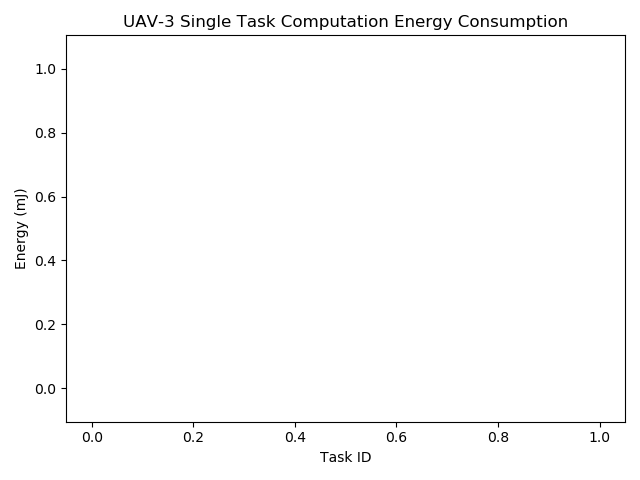
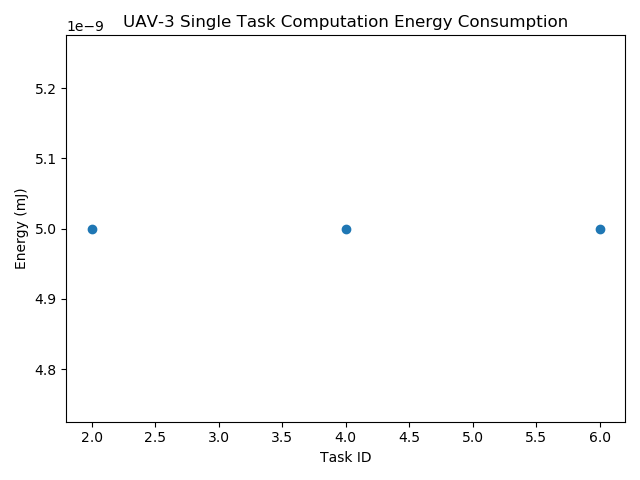
update

diff --git a/src/ros_mpi/scripts/util.py b/src/ros_mpi/scripts/util.py
@@ -301,6 +301,7 @@ class WorkerNode:
                                  band_width=float(config.get('DatarateConfig','band_width')),
                                  transmission_power=float(config.get('DatarateConfig','transmission_power')),
                                  alpha=float(config.get('DatarateConfig','alpha')))
+
             print(f'constructing worker node on {self.node_id}')
             rospy.init_node(self.nodeVerify, anonymous=True)
             while True:
@@ -388,6 +389,27 @@ class Master:
                                  band_width=float(config.get('DatarateConfig','band_width')),
                                  transmission_power=float(config.get('DatarateConfig','transmission_power')),
                                  alpha=float(config.get('DatarateConfig','alpha')))
+        self.comp = [[14,16,9],
+                    [13,19,18],
+                    [11,13,19],
+                    [13,8,17],
+                    [12,13,10],
+                    [13,16,9],
+                    [7,15,11],
+                    [5,11,4],
+                    [18,12,20],
+                    [21,7,16]]
+
+        self.comm = [[0,18,12,9,11,14,0,0,0,0],
+                    [0,0,0,0,0,0,0,19,16,0],
+                    [0,0,0,0,0,0,23,0,0,0],
+                    [0,0,0,0,0,0,0,27,23,0],
+                    [0,0,0,0,0,0,0,0,13,0],
+                    [0,0,0,0,0,0,0,15,0,0],
+                    [0,0,0,0,0,0,0,0,0,17],
+                    [0,0,0,0,0,0,0,0,0,11],
+                    [0,0,0,0,0,0,0,0,0,13],
+                    [0,0,0,0,0,0,0,0,0,0]]
         # while True:
         #     if rospy.wait_for_message('/uav%d/ground_truth_to_tf/pose'%self.nodeid, PoseStamped).pose.position.z + 0.1 > 0:
         #         break
@@ -433,12 +455,13 @@ class Master:
         
     def comm_time(self,u1,u2):
         # print(f'uav {u1} and uav {u2}')
-        pos_1= rospy.wait_for_message('/uav%d/ground_truth_to_tf/pose'%u1, PoseStamped)
-        pos_2 = rospy.wait_for_message('/uav%d/ground_truth_to_tf/pose'%u2, PoseStamped)
-        d = math.dist([pos_1.pose.position.x,pos_1.pose.position.y,pos_1.pose.position.z],
-                             [pos_2.pose.position.x,pos_2.pose.position.y,pos_2.pose.position.z])
+        # pos_1= rospy.wait_for_message('/uav%d/ground_truth_to_tf/pose'%u1, PoseStamped)
+        # pos_2 = rospy.wait_for_message('/uav%d/ground_truth_to_tf/pose'%u2, PoseStamped)
+        # d = math.dist([pos_1.pose.position.x,pos_1.pose.position.y,pos_1.pose.position.z],
+        #                      [pos_2.pose.position.x,pos_2.pose.position.y,pos_2.pose.position.z])
         # dr = Datarate()
-        return self.datarate.data_rate(d)
+        # return self.datarate.data_rate(d)
+        return self.datarate.data_rate(4000)
     def distance_between_nodes(self,u1,u2):
         pos_1= rospy.wait_for_message('/uav%d/ground_truth_to_tf/pose'%u1, PoseStamped)
         pos_2 = rospy.wait_for_message('/uav%d/ground_truth_to_tf/pose'%u2, PoseStamped)
@@ -450,35 +473,27 @@ class Master:
         thread.start()
         for x in dt:
             self.fly_energy.append([self.energy * (x.size / self.cpu),x.task_idx])
-            # if self.distance_between_nodes(self.nodeid,x.processor_id+1) > self.comm_range:
-            #     print('**'*20)
-            #     print('Communication Failed......')
-            #     print('**'*20)
-            # else:
             if x.processor_id == 0:
-                # if self.distance_between_nodes(self.nodeid,self.locate_pred(x)+1) > self.comm_range:
-                #     print('**'*20)
-                #     print('at line 291 Communication Failed......')
-                #     print('**'*20)
-                #     continue
-                # else:
+                print(f'at line 459')
                 location_predecessor = self.locate_pred(x)
                 trans_time = x.size / self.comm_time(self.nodeid,location_predecessor+1) if location_predecessor != 0 else 0
                 x.st = max(self.master_task[-1].et, self.pred_aft(x)+trans_time) if self.master_task else self.pred_aft(x)+trans_time
                 x.et = x.st + ((x.size/x.ci)*10)
                 self.comp_energy.append([x.delta * (x.size/x.ci),x.task_idx])
                 # self.comp_time.append([(x.size/x.ci),x.task_idx])
-                self.comp_time.append([20,x.task_idx]) #computatin time
+                self.comp_time.append([self.comp[self.nodeid - 1][x.processor_id],x.task_idx]) #computatin time
                 self.master_task.append(x)
                 # if self.master_task[-1].st < 0:
                 #     continue
-                rospy.sleep(x.size/x.ci) #simulate computation time
+                # rospy.sleep(x.size/x.ci) #simulate computation time
                 self.pub.publish(x)
                 rospy.sleep(self.sleepTime) #communication delay
             else:
                 #plus communication time
                 temp = self.comm_time(self.nodeid,x.processor_id+1)
-                x.st = self.pred_aft(x) + (x.size / temp)
+                # x.st = self.pred_aft(x) + (x.size / temp)
+                print(f'comp time at line 495 with nodeid {self.nodeid} and processor {x.processor_id}: {self.comp[self.nodeid - 1][x.processor_id]}')
+                x.st = self.pred_aft(x) + self.comp[self.nodeid - 1][x.processor_id]
                 self.communication_time_offload.append([x.size / temp,x.task_idx])
                 # print(f'at line 261 current task {x.task_idx} not on master with communication time {self.communication_time_offload[-1]}')
                 self.comm_energy.append([(x.size / temp)*self.energy,x.task_idx]) #units: mj
@@ -535,6 +550,27 @@ class Worker:
                                  band_width=float(config.get('DatarateConfig','band_width')),
                                  transmission_power=float(config.get('DatarateConfig','transmission_power')),
                                  alpha=float(config.get('DatarateConfig','alpha')))
+        self.comp = [[14,16,9],
+                    [13,19,18],
+                    [11,13,19],
+                    [13,8,17],
+                    [12,13,10],
+                    [13,16,9],
+                    [7,15,11],
+                    [5,11,4],
+                    [18,12,20],
+                    [21,7,16]]
+
+        self.comm = [[0,18,12,9,11,14,0,0,0,0],
+                    [0,0,0,0,0,0,0,19,16,0],
+                    [0,0,0,0,0,0,23,0,0,0],
+                    [0,0,0,0,0,0,0,27,23,0],
+                    [0,0,0,0,0,0,0,0,13,0],
+                    [0,0,0,0,0,0,0,15,0,0],
+                    [0,0,0,0,0,0,0,0,0,17],
+                    [0,0,0,0,0,0,0,0,0,11],
+                    [0,0,0,0,0,0,0,0,0,13],
+                    [0,0,0,0,0,0,0,0,0,0]]
         # while True: 
         #     if rospy.wait_for_message('/uav%d/ground_truth_to_tf/pose'%self.worker_id, PoseStamped).pose.position.z + 0.1 > 0:
         #         break
@@ -566,10 +602,12 @@ class Worker:
             data.et = data.st +((data.size / data.ci)*10) #add more computation time
             self.comp_energy.append([data.delta *(data.size/data.ci),data.task_idx]) #units: mj
             # self.comp_time.append([(data.size / data.ci),data.task_idx] )
-            self.comp_time.append([20,data.task_idx] )
+            print(f'comp time at line 495 with nodeid {self.nodeid} and processor {x.processor_id}: {self.comp[self.nodeid - 1][x.processor_id]}')
+
+            self.comp_time.append([self.comp[self.worker_id - 1][data.processor_id],data.task_idx] )
             self.comm_energy.append([(data.size / current_datarate) * self.energy,data.task_idx]) #units: j
             self.communication_time.append(data.size / current_datarate)
-            rospy.sleep((data.size / data.ci)) #simulate computation time
+            # rospy.sleep((data.size / data.ci)) #simulate computation time
             self.pub.publish(data)
             rospy.sleep(self.sleepTime) #communication delay
             self.worker_task.append(data)

diff --git a/src/ros_mpi/scripts/dataplot.py b/src/ros_mpi/scripts/dataplot.py
@@ -45,7 +45,7 @@ class PlotGraph:
 
         # Create a figure and axis
         fig, ax = plt.subplots()
-        fast,faft = [0]*20,[0]*20
+        fast,faft = [0]*10,[0]*10
         for x in task_time:
             for y in x:
                 fast[y['task_id']] = y['start_time']
